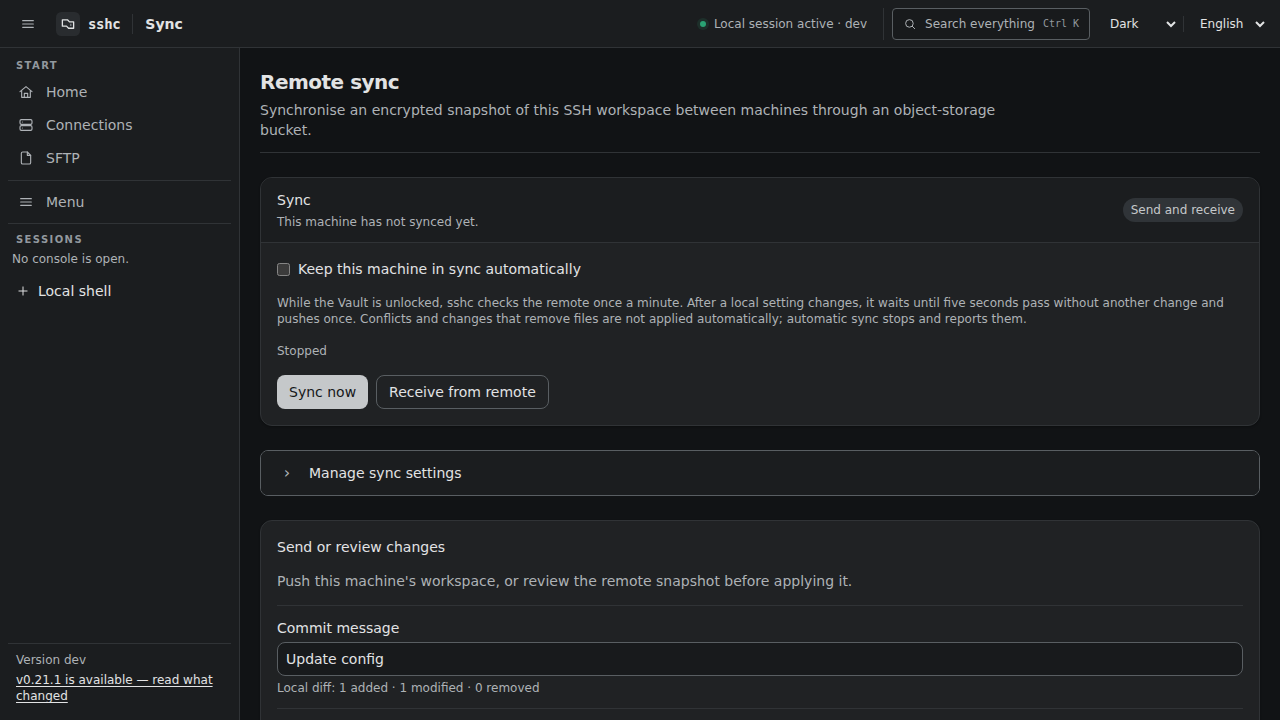
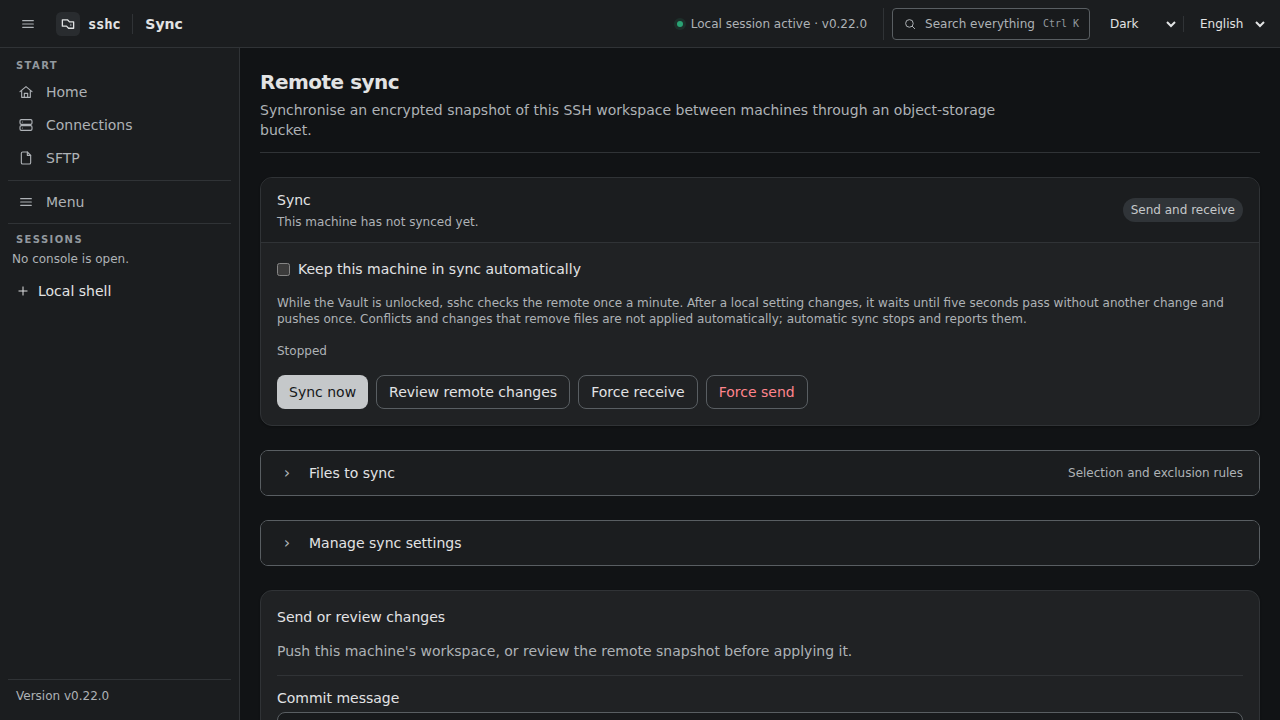
docs(sync): 同期除外と復旧操作を案内する

diff --git a/pages/en/features/sync.md b/pages/en/features/sync.md
@@ -28,6 +28,10 @@ Choose bidirectional, send-only, or receive-only sync.
 
 Receive-only is useful for a secondary read-only device. If its history diverges, review the current remote snapshot and explicitly receive it. This operation does not write to the bucket.
 
+Connection and receive failures distinguish authentication refusal, timeout, DNS, TLS, an incorrect encryption key, unsupported formats and damaged snapshots. An unclassified failure shows a stable diagnostic code for support.
+
+During receive, configuration files are restored exactly from the authoritative remote snapshot. OpenSSH settings that sshc cannot structure, or syntax problems already present in that snapshot, do not make replication fail; inspect them afterward in Connections or Diagnostics.
+
 ## Git-like flow
 
 - Review changes previews local and remote differences.
@@ -38,6 +42,27 @@ Receive-only is useful for a secondary read-only device. If its history diverges
 - History reads earlier snapshots directly from the bucket.
 
 When automatic sync is enabled, sshc polls the remote once a minute while the Vault is unlocked, without uploading during the check. On bidirectional and send-only devices, local changes made through sshc trigger one push after a five-second quiet period. Another change restarts that five-second delay. Receive-only devices never push.
+
+## Files excluded from sync
+
+![Search and exclude files from synchronization](/images/sync-exclusions-desktop-en.png)
+
+Use Files to sync on the Sync screen to search current files and include or exclude them. The advanced editor manages `.sshcignore` at the workspace root with Gitignore-like patterns. These are globs rather than regular expressions: use `*`, `**`, `?`, `!` to re-include a path, and a leading `/` to anchor a rule at the root.
+
+The initial rules exclude common OS metadata, backup files, temporary files, and lock files:
+
+```text
+**/.DS_Store
+**/Thumbs.db
+**/desktop.ini
+*.bak
+*.tmp
+*.lock
+```
+
+Once saved, `.sshcignore` itself is synchronized so every device sharing the target uses the same boundary. An existing local file that is excluded is neither overwritten nor removed by normal Pull or Force Pull. The screen warns when a rule excludes connection settings or keys because those files will not reach other devices.
+
+The `.sshcignore` control file and the encrypted transfer documents for Vault and snippets always synchronize, even under a broad rule such as `*`. sshc continues to exclude bucket credentials, device-local history, and live runtime locks independently.
 
 The Sync screen keeps routine operations separate from configuration. Bucket credentials and the encryption key live under Manage sync settings. Snapshot differences and S3 history are under Details and history. History initially shows the latest five entries; expand it or reveal S3 object names only when needed.
 

diff --git a/pages/reference/troubleshooting.md b/pages/reference/troubleshooting.md
@@ -34,3 +34,5 @@ sshc sync now
 ```
 
 Vaultのロックが解除されているか、同期方向が合っているか、バケットの状態が最新か、最後の確認がいつ行われたかを確認してください。`outcome_unknown`は、変更を送信したものの、結果を確定できなかった状態です。同じ操作をすぐに繰り返さず、リモートの状態を更新してから判断してください。
+
+同期エラーには画面上の原因説明と`Code`が表示されます。`bucket_refused`は資格情報・リージョン・権限、`bucket_dns_failed`は名前解決、`bucket_tls_failed`はHTTPS証明書または端末時刻、`bucket_timeout`と`bucket_unreachable`はネットワークを確認してください。`wrong_passphrase`は、同じ保存先を使う端末で同期キーが一致していない状態です。`sync_internal_failed`は分類できない製品側の失敗なので、表示された診断コードを添えて報告してください。

diff --git a/pages/en/reference/troubleshooting.md b/pages/en/reference/troubleshooting.md
@@ -34,3 +34,5 @@ sshc sync now
 ```
 
 Check that the vault is unlocked, the direction permits the operation, the bucket status is current and a recent check is recorded. `outcome_unknown` means a write may have reached storage but its result was not confirmed. Refresh remote state before deciding whether to retry.
+
+Sync failures show a cause and a stable `Code`. For `bucket_refused`, check credentials, region and permissions. `bucket_dns_failed` indicates name resolution; `bucket_tls_failed` indicates HTTPS certificate verification or the device clock; `bucket_timeout` and `bucket_unreachable` indicate network reachability. `wrong_passphrase` means the sync key does not match the data at that target. Report `sync_internal_failed` with its diagnostic code because it is an unclassified product failure.

diff --git a/pages/en/sync/workflow.md b/pages/en/sync/workflow.md
@@ -35,7 +35,11 @@ Bucket history is read directly from S3. The screen initially shows the latest f
 ```sh
 sshc sync
 sshc sync push --json
+sshc sync push --force --json
 sshc sync pull --json
+sshc sync pull --force --json
 sshc sync now --json
 sshc sync auto on
 ```
+
+`sync pull --force` treats the current remote as authoritative, previews it, and applies only after rechecking the same ETag and revision. `sync push --force` replaces the remote and requires an interactive or equivalent explicit confirmation.
